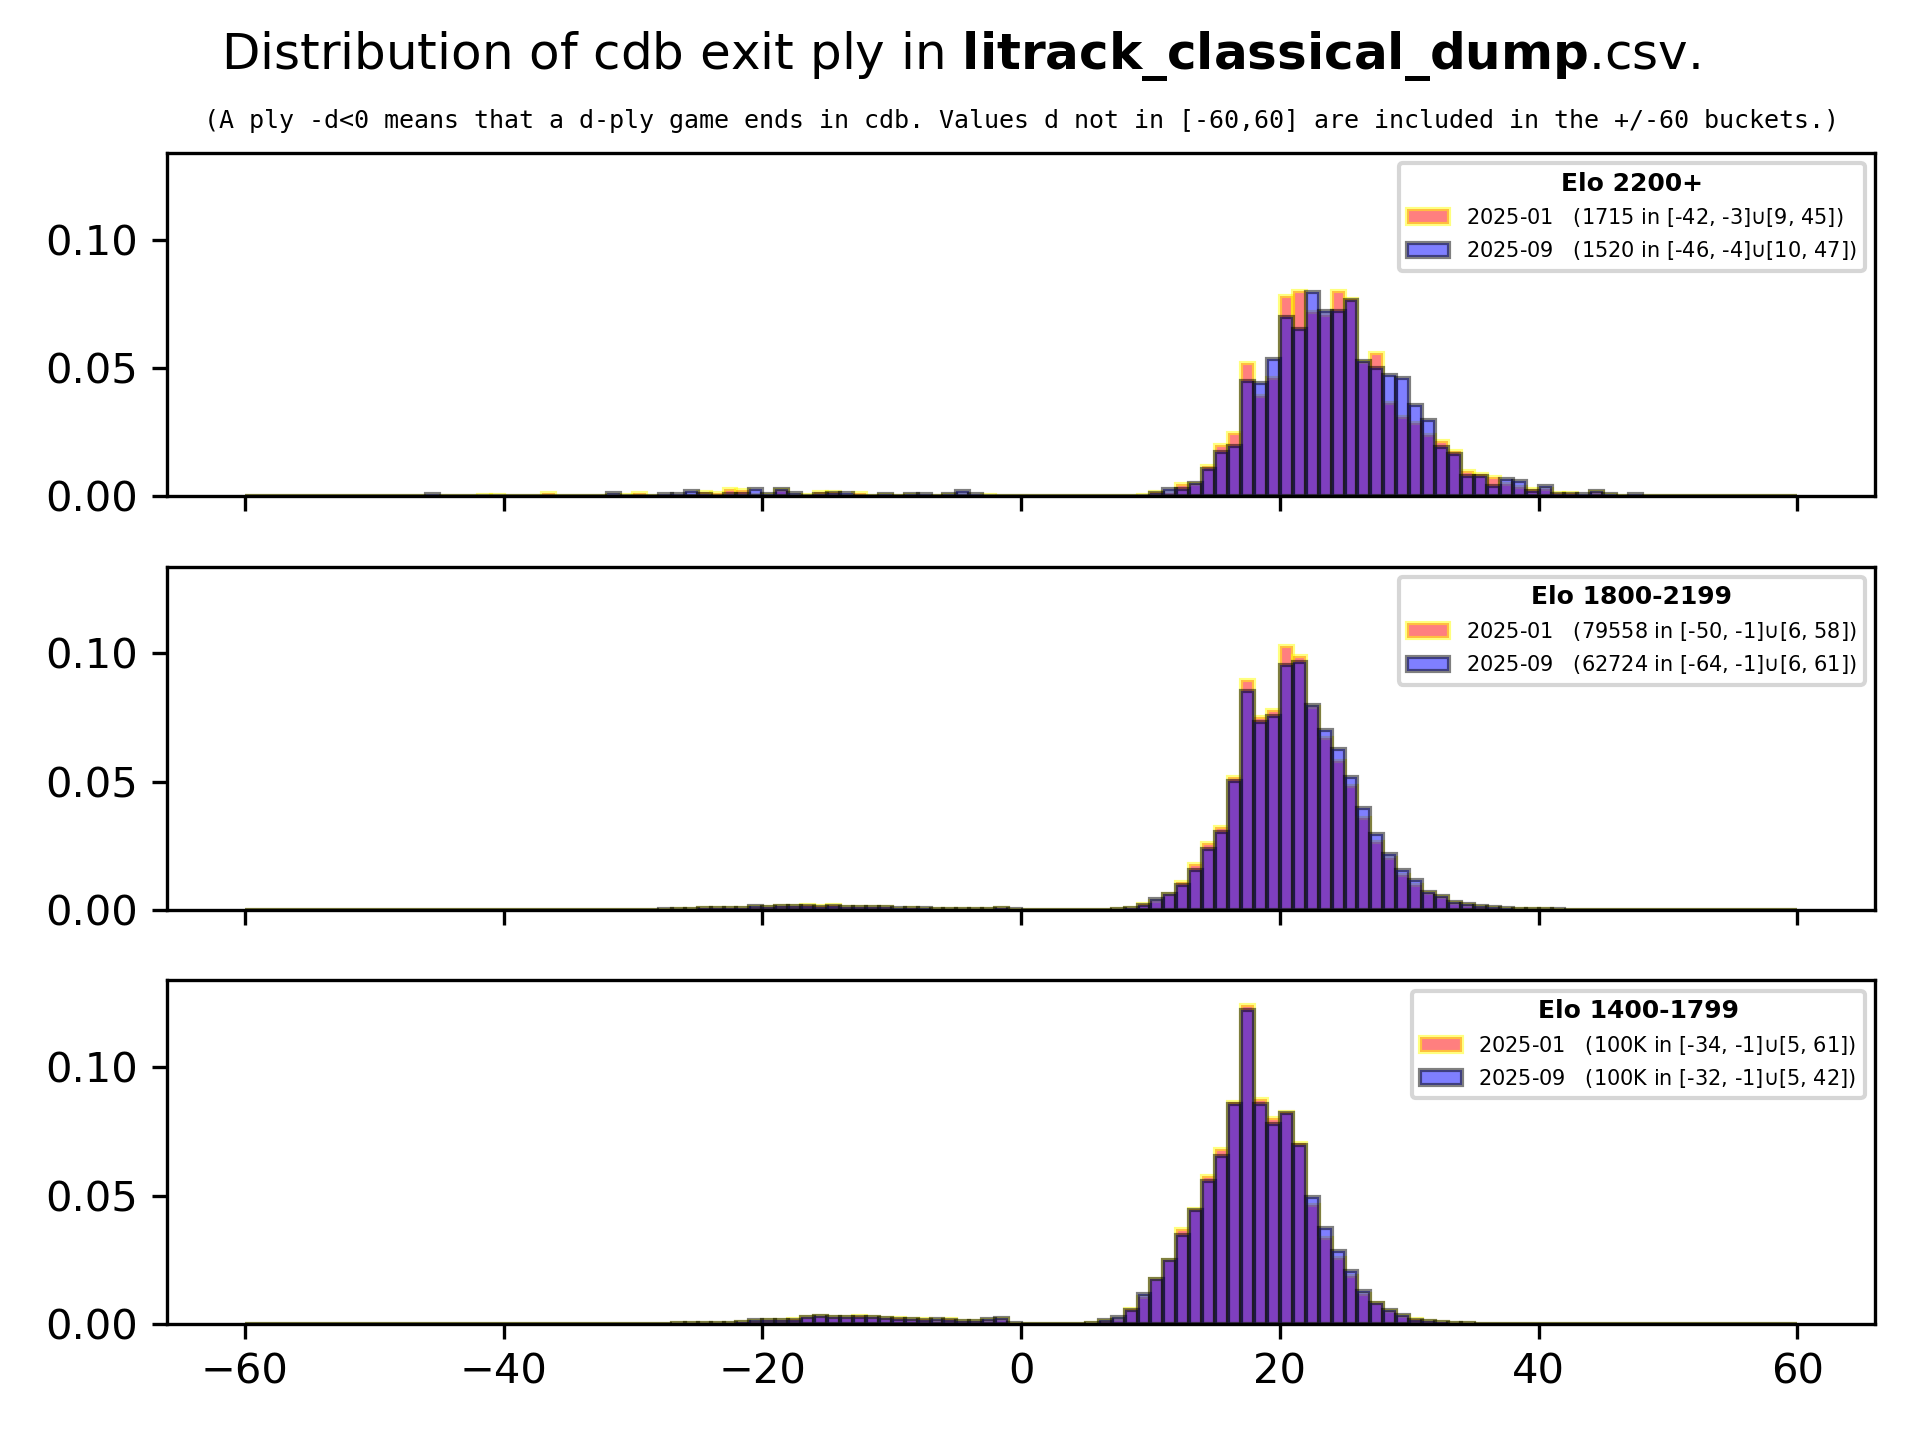
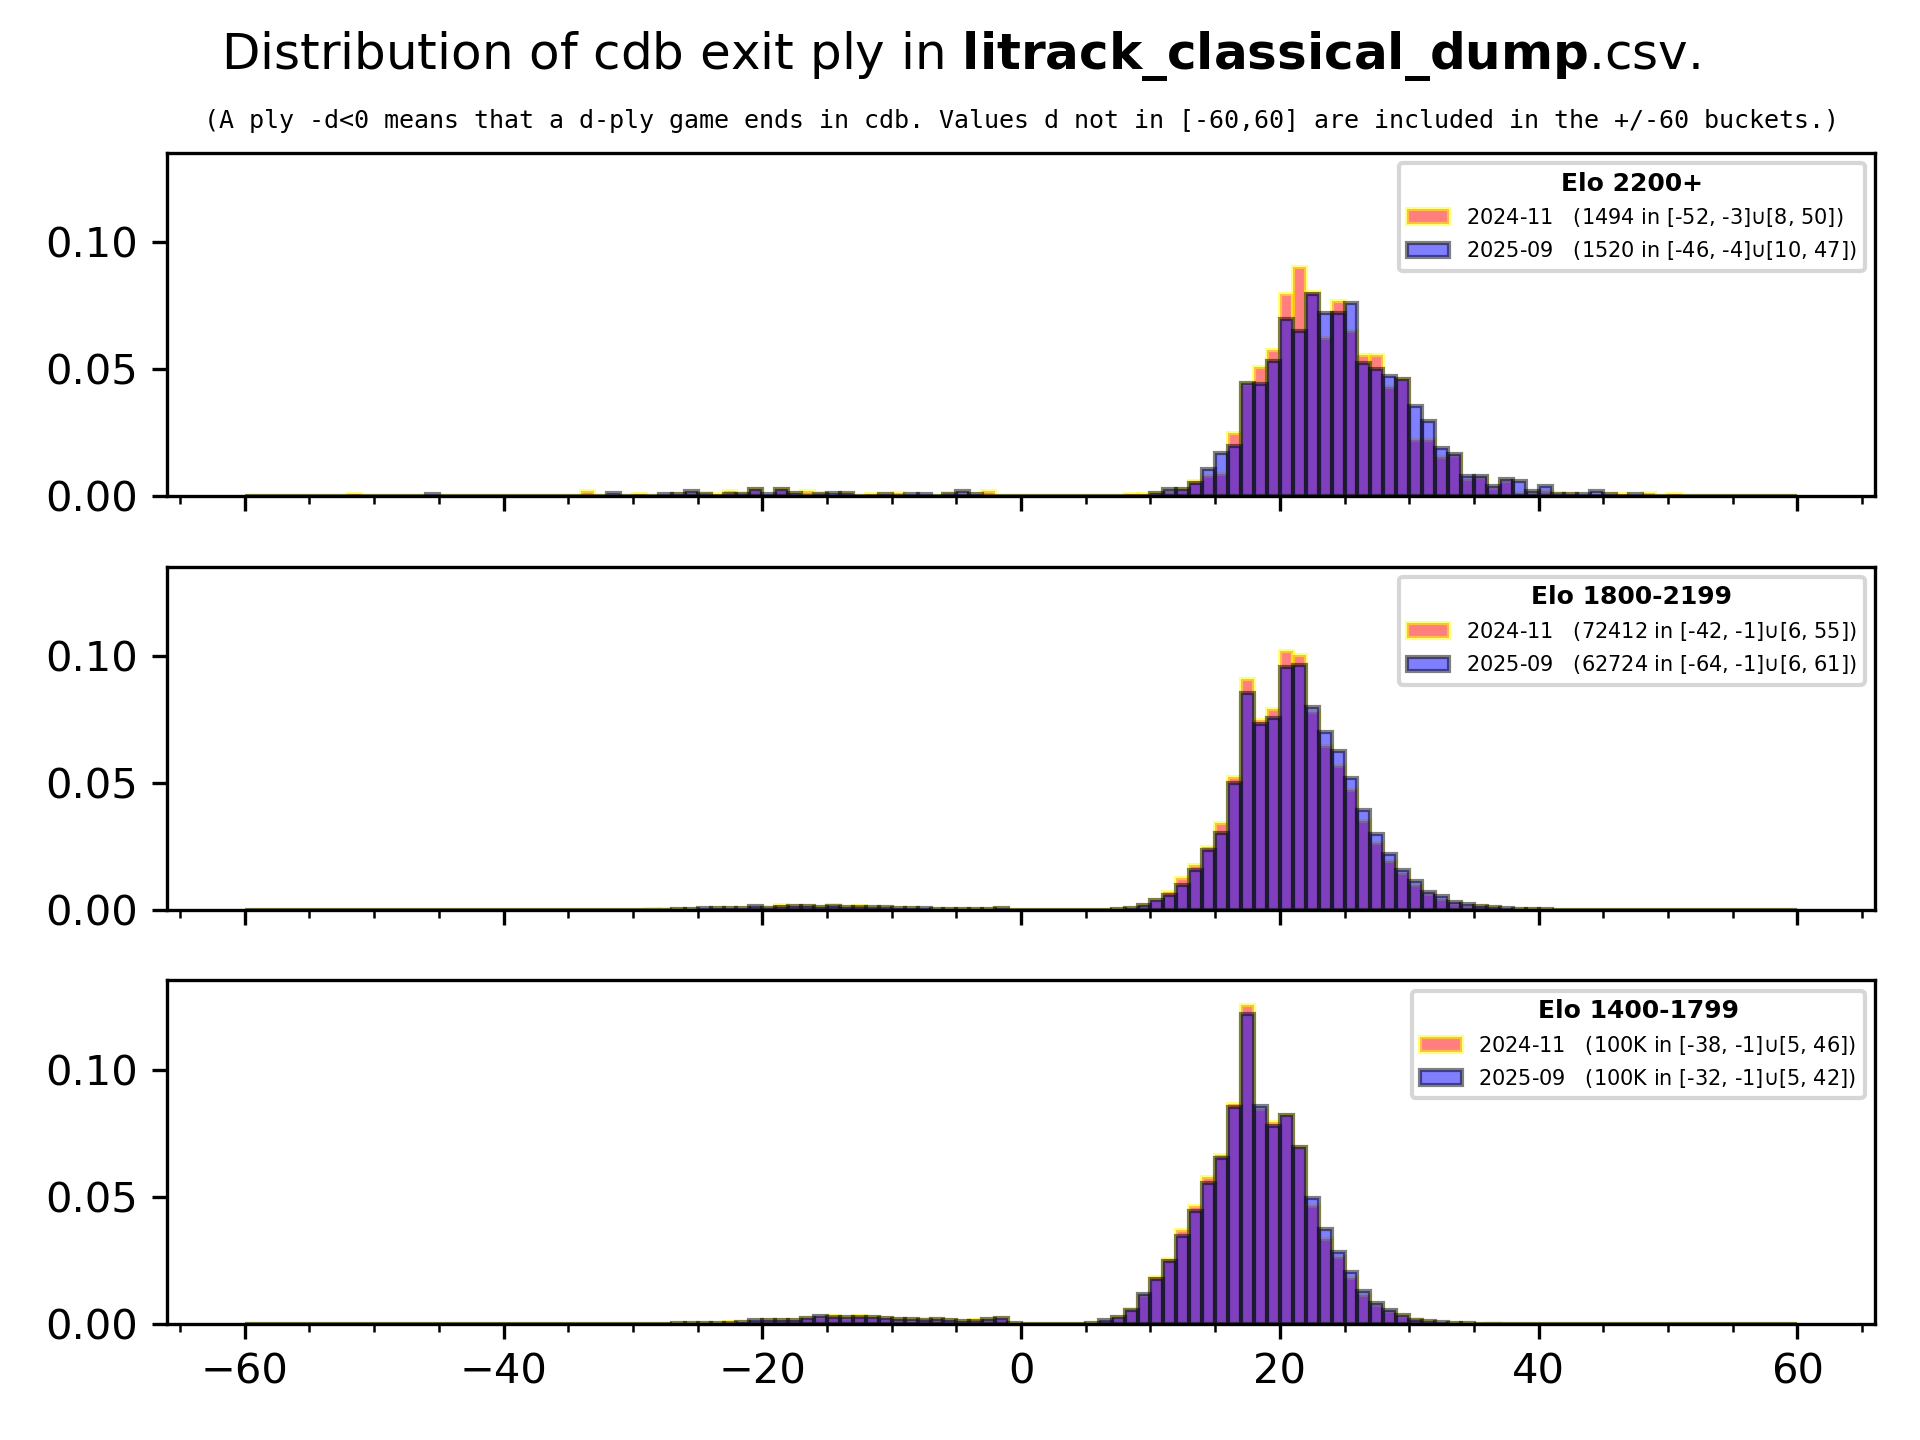
show log plots

diff --git a/plotdata.py b/plotdata.py
@@ -3,8 +3,7 @@ import matplotlib.pyplot as plt
 import matplotlib.dates as mdates
 from datetime import datetime
 from matplotlib.offsetbox import AnchoredOffsetbox, TextArea, HPacker, VPacker
-from matplotlib.ticker import MaxNLocator
-from matplotlib.ticker import FuncFormatter
+from matplotlib.ticker import AutoMinorLocator
 
 depthIndicatorStr = ""
 
@@ -146,11 +145,13 @@ class litrackdata:
 
         if titleStr:
             ax[0].set_title(f"({titleStr.strip()})", fontsize=6, family="monospace")
-        fig.tight_layout(rect=[0, 0, 1, 1.03])
         if yrange is not None:
             ax[0].set_ylim(yrange)
         ymin, ymax = ax[0].get_ylim()
         print(f"Distro shared y-range: {ymin} {ymax}")
+        ax[0].xaxis.set_minor_locator(AutoMinorLocator())
+
+        fig.tight_layout(rect=[0, 0, 1, 1.03])
 
         plt.savefig(self.prefix + ".png", dpi=300)
 

diff --git a/Readme.md b/Readme.md
@@ -23,25 +23,26 @@ Hence $D$ is an approximation of the games' average exit ply on cdb.
 <table>
   <tr>
     <td align="center">
+      <img src="images/litrack_blitz_cdb_log.png?raw=true" width="100%">
+    </td>
+    <td align="center">
+      <img src="images/litrack_rapid_cdb_log.png?raw=true" width="100%">
+    </td>
+    <td align="center">
+      <img src="images/litrack_classical_cdb_log.png?raw=true" width="100%">
+    </td>
+  </tr>
+  <tr>
+    <td align="center">
       <img src="images/litrack_blitz_cdb.png?raw=true" width="100%">
-      <div align="right">
-        <sup><i>log plot: <a href="images/litrack_blitz_cdb_log.png?raw=true">&bull;</a></i></sup>
-      </div>
     </td>
     <td align="center">
       <img src="images/litrack_rapid_cdb.png?raw=true" width="100%">
-      <div align="right">
-        <sup><i>log plot: <a href="images/litrack_rapid_cdb_log.png?raw=true">&bull;</a></i></sup>
-      </div>
     </td>
     <td align="center">
       <img src="images/litrack_classical_cdb.png?raw=true" width="100%">
-      <div align="right">
-        <sup><i>log plot: <a href="images/litrack_classical_cdb_log.png?raw=true">&bull;</a></i></sup>
-      </div>
     </td>
   </tr>
-
   <tr>
     <td align="center"><img src="images/litrack_blitz_cdbtime.png?raw=true" width="100%"></td>
     <td align="center"><img src="images/litrack_rapid_cdbtime.png?raw=true" width="100%"></td>
@@ -56,22 +57,24 @@ Hence $D$ is an approximation of the games' average exit ply on cdb.
 <table>
   <tr>
     <td align="center">
+      <img src="images/litrack_blitz_dump_log.png?raw=true" width="100%">
+    </td>
+    <td align="center">
+      <img src="images/litrack_rapid_dump_log.png?raw=true" width="100%">
+    </td>
+    <td align="center">
+      <img src="images/litrack_classical_dump_log.png?raw=true" width="100%">
+    </td>
+  </tr>
+  <tr>
+    <td align="center">
       <img src="images/litrack_blitz_dump.png?raw=true" width="100%">
-      <div align="right">
-        <sup><i>log plot: <a href="images/litrack_blitz_dump_log.png?raw=true">&bull;</a></i></sup>
-      </div>
     </td>
     <td align="center">
       <img src="images/litrack_rapid_dump.png?raw=true" width="100%">
-      <div align="right">
-        <sup><i>log plot: <a href="images/litrack_rapid_dump_log.png?raw=true">&bull;</a></i></sup>
-      </div>
     </td>
     <td align="center">
       <img src="images/litrack_classical_dump.png?raw=true" width="100%">
-      <div align="right">
-        <sup><i>log plot: <a href="images/litrack_classical_dump_log.png?raw=true">&bull;</a></i></sup>
-      </div>
     </td>
   </tr>
 
@@ -83,7 +86,9 @@ Hence $D$ is an approximation of the games' average exit ply on cdb.
 </table>
 
 <sup>
-Dump benches: 2025-01 - present: 48454315961.
+Dump benches:
+2024-11 - 2025-05: 46456113101,
+2025-06 - present: 48454315961.
 See <a href="https://huggingface.co/datasets/robertnurnberg/chessdbcn">
 Hugging Face</a>.
 </sup>
